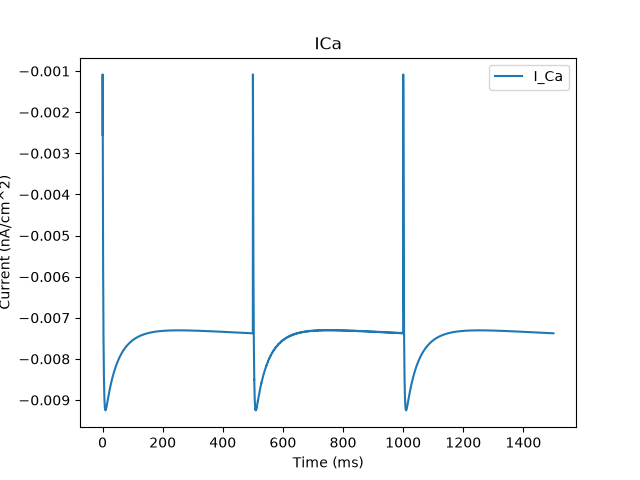
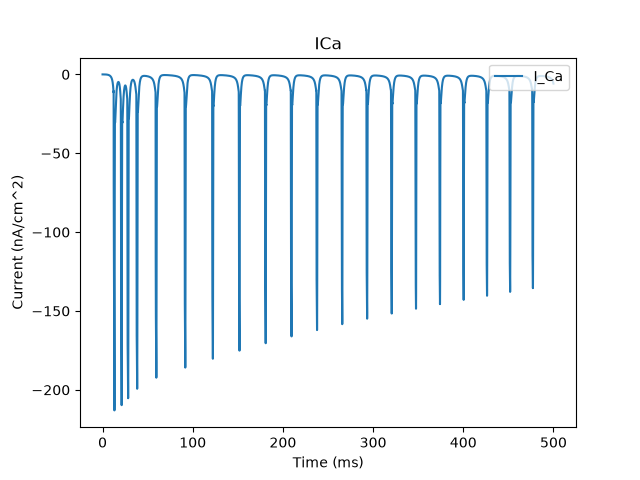
IT WORKS!!!!!!

diff --git a/HodgkinHuxley.py b/HodgkinHuxley.py
@@ -135,34 +135,24 @@ class HogdkinHuxley:
 
     def setValues_alt(self):
         #Units
+        # Membrane voltage
+        self.V0 = -75.5
         # Initialize conductance
-        self.g_NaT = 65 #Labeled gS in paper, assuming this is correct
+        self.g_NaT = 65
+        #Labeled gS in paper, assuming this is correct
         self.g_NaP = 0.1
         self.g_CaT = 0.6
-        self.g_CaH = 0.74
+        self.g_CaH = 2.6  #0.74
         self.g_KDR = 9.5
         self.g_KM = 0.8
         self.g_L = 0.02
         self.g_H = 0.0503 #Does not exist
-        # Initialize gating variable
-        self.m_CaT0 = 0.005486594704365255
-        self.m_CaH0 = 2.260443363987366e-06
-        self.m_KDR0 = 0.0014881270089334075
-        self.m_KM0 = 0.006693236665689997
-        self.m_H0 = 0.1554691454071592
-        self.h_NaT0 = 0.6713104329954209
-        self.h_CaT0 = 0.8537921873675318
-        self.h_CaH0 = 0.9456737145278049
-        self.h_KDR0 = 0.7694232333411584
-        self.n_H0 = 0.024919369791676596
+
         # Half activation voltage
         self.Vm_NaT = -37
-        self.setValues_Repeats()
 
-    def setValues_Repeats(self):
         # Initialize gating variable
-        self.m_NaT_inf = 0
-        self.m_NaP_inf = 0
+
         self.p = 0.85 #Does not exist
         # Half activation voltage
         self.Vm_NaP = -47
@@ -205,8 +195,6 @@ class HogdkinHuxley:
         self.E_K = -85
         self.E_L = -65
         self.E_H = -30 #Does not exist
-        # Membrane voltage
-        self.V0 = -75.5
         # Conductance
         self.C = 1
         # Calcium
@@ -221,6 +209,34 @@ class HogdkinHuxley:
         self.B_c = 90  # microMolar
         self.Ca_c0 = self.Ca_cr
         self.F = constants.physical_constants['Faraday constant'][0] * 1e-6  # C mol^-1 converted to smaller version from paper
+
+        # Initialize gating variable
+        # self.m_CaT0 = 0.005486594704365255
+        # self.m_CaH0 = 2.260443363987366e-06
+        # self.m_KDR0 = 0.0014881270089334075
+        # self.m_KM0 = 0.006693236665689997
+        # self.m_H0 = 0.1554691454071592
+        # self.h_NaT0 = 0.6713104329954209
+        # self.h_CaT0 = 0.8537921873675318
+        # self.h_CaH0 = 0.9456737145278049
+        # self.h_KDR0 = 0.7694232333411584
+        # self.n_H0 = 0.024919369791676596
+
+        self.m_CaT0 = boltzmann(self.V0, self.Vm_CaT, self.km_CaT)
+        self.m_CaH0 = boltzmann(self.V0, self.Vm_CaH, self.km_CaH)
+        self.m_KDR0 = boltzmann(self.V0, self.Vm_KDR, self.km_KDR)
+        self.m_KM0 = boltzmann(self.V0, self.Vm_KM, self.km_KM)
+        self.m_H0 = boltzmann(self.V0, self.Vm_H, self.km_H)
+        self.h_NaT0 = boltzmann(self.V0, self.Vh_NaT, self.kh_NaT)
+        self.h_CaT0 = boltzmann(self.V0, self.Vh_CaT, self.kh_CaT)
+        self.h_CaH0 = boltzmann(self.V0, self.Vh_CaH, self.kh_CaH)
+        self.h_KDR0 = boltzmann(self.V0, self.Vh_KDR, self.kh_KDR)
+        self.n_H0 = boltzmann(self.V0, self.Vn_H, self.kn_H)
+
+
+
+
+
 
     def updateValues(self, m_CaT0, m_CaH0, m_KDR0, m_KM0, m_H0, h_NaT0, h_CaT0, h_CaH0, h_KDR0, n_H0):
         self.m_CaT0 = m_CaT0
@@ -249,57 +265,100 @@ class HogdkinHuxley:
         z = ODEresults.y
         if verbose:
             print(ODEresults.message)
+
         #Unpack
         if memory: #Save timeseries
             if verbose:
                 print("Saving ODE time series")
-            #Time series
-            self.t_m_CaT = np.append(self.t_m_CaT, z[0])
-            self.t_m_CaH = np.append(self.t_m_CaH, z[1])
-            self.t_m_KDR = np.append(self.t_m_KDR, z[2])
-            self.t_m_KM = np.append(self.t_m_KM, z[3])
-            self.t_m_H = np.append(self.t_m_H, z[4])
-            self.t_h_NaT = np.append(self.t_h_NaT, z[5])
-            self.t_h_CaT = np.append(self.t_h_CaT, z[6])
-            self.t_h_CaH = np.append(self.t_h_CaH, z[7])
-            self.t_h_KDR = np.append(self.t_h_KDR, z[8])
-            self.t_n_H = np.append(self.t_n_H, z[9])
-            self.t_V = np.append(self.t_V, z[10])
-            self.t_Ca = np.append(self.t_Ca, z[11])
-            self.t_I_app = np.append(self.t_I_app, I_app.getMultipleCurrents(self.t_eval))
 
+
+            arraySize = len(self.t_eval)
+
+            #Create temporary arrays
+            small_t_m_NaT = np.zeros(arraySize)
+            small_t_m_NaP = np.zeros(arraySize)
+            small_t_I_NaT = np.zeros(arraySize)
+            small_t_I_NaP = np.zeros(arraySize)
+            small_t_I_CaT = np.zeros(arraySize)
+            small_t_I_CaH = np.zeros(arraySize)
+            small_t_I_KDR = np.zeros(arraySize)
+            small_t_I_KM = np.zeros(arraySize)
+            small_t_I_L = np.zeros(arraySize)
+            small_t_I_H = np.zeros(arraySize)
+            small_t_I_SK = np.zeros(arraySize)
+
+            #Time series of individual run
+            small_t_m_CaT = z[0]
+            small_t_m_CaH = z[1]
+            small_t_m_KDR = z[2]
+            small_t_m_KM = z[3]
+            small_t_m_H = z[4]
+            small_t_h_NaT = z[5]
+            small_t_h_CaT = z[6]
+            small_t_h_CaH = z[7]
+            small_t_h_KDR = z[8]
+            small_t_n_H = z[9]
+            small_t_V = z[10]
+            small_t_Ca = z[11]
+            small_t_I_app = I_app.getMultipleCurrents(self.t_eval)
+
+            #Calculate non ODE time series
             if verbose:
                 print("Deriving time series")
-            for i,voltage in enumerate(z[10]):
-                self.t_m_NaT = np.append(self.t_m_NaT, boltzmann(voltage, self.Vm_NaT, self.km_NaT))
-                self.t_m_NaP = np.append(self.t_m_NaP, boltzmann(voltage, self.Vm_NaP, self.km_NaP))
-                self.t_I_NaT = np.append(self.t_I_NaT, I_NaT_get(self.g_NaT, self.t_m_NaT[i], self.t_h_NaT[i], voltage, self.E_Na))
-                self.t_I_NaP = np.append(self.t_I_NaP, I_NaP_get(self.g_NaP, self.t_m_NaP[i], voltage, self.E_Na))
-                self.t_I_CaT = np.append(self.t_I_CaT, I_CaT_get(self.g_CaT, self.t_m_CaT[i], self.t_h_CaT[i], voltage, self.E_Ca))
-                self.t_I_CaH = np.append(self.t_I_CaH, I_CaH_get(self.g_CaH, self.t_m_CaH[i], self.t_h_CaH[i], voltage, self.E_Ca))
-                self.t_I_KDR = np.append(self.t_I_KDR, I_KDR_get(self.g_KDR, self.t_m_KDR[i], self.t_h_KDR[i], voltage, self.E_K))
-                self.t_I_KM = np.append(self.t_I_KM, I_KM_get(self.g_KM, self.t_m_KM[i], voltage, self.E_K))
-                self.t_I_L = np.append(self.t_I_L, I_L_get(self.g_L, voltage, self.E_L))
-                self.t_I_H = np.append(self.t_I_H, I_H_get(self.g_H, self.p, self.t_m_H[i], self.t_n_H[i], voltage, self.E_H))
-                self.t_I_SK = np.append(self.t_I_SK, I_SK_get(self.g_SK, self.t_Ca[i], self.k_SK, voltage, self.E_K))
-            # print(I_app.getCurrent(I_app.getLength))
-            # print(I_hold)
-            # print(self.t_I_NaT[-1] + self.t_I_NaP[-1] + self.t_I_CaT[-1] + self.t_I_CaH[-1] + self.t_I_KDR[-1] + self.t_I_KM[-1] + self.t_I_L[-1] + self.t_I_H[-1])
-            # print("t_I_NaT " + str(self.t_I_NaT[-1]))
-            # print("t_I_NaP " + str(self.t_I_NaP[-1]))
-            # print("t_I_CaT " + str(self.t_I_CaT[-1]))
-            # print("t_I_CaH " + str(self.t_I_CaH[-1]))
-            # print("t_I_KDR " + str(self.t_I_KDR[-1]))
-            # print("t_I_KM " + str(self.t_I_KM[-1]))
-            # print("t_I_L " + str(self.t_I_L[-1]))
-            # print("t_I_H " + str(self.t_I_H[-1]))
-            # print("hCaT " + str(self.t_h_CaT[-1]))
-            # print("hCaT_INF " + str(boltzmann(z[10][-1], self.Vh_CaT, self.kh_CaT)))
-            # print("t_I_SK " + str(self.t_I_SK[-1]))
+            for i,voltage in enumerate(small_t_V):
+                small_t_m_NaT[i] = boltzmann(voltage, self.Vm_NaT, self.km_NaT)
+                small_t_m_NaP[i] = boltzmann(voltage, self.Vm_NaP, self.km_NaP)
+                small_t_I_NaT[i] = I_NaT_get(self.g_NaT, small_t_m_NaT[i], small_t_h_NaT[i], voltage, self.E_Na)
+                small_t_I_NaP[i] = I_NaP_get(self.g_NaP, small_t_m_NaP[i], voltage, self.E_Na)
+                small_t_I_CaT[i] = I_CaT_get(self.g_CaT, small_t_m_CaT[i], small_t_h_CaT[i], voltage, self.E_Ca)
+                small_t_I_CaH[i] = I_CaH_get(self.g_CaH, small_t_m_CaH[i], small_t_h_CaH[i], voltage, self.E_Ca)
+                small_t_I_KDR[i] = I_KDR_get(self.g_KDR, small_t_m_KDR[i], small_t_h_KDR[i], voltage, self.E_K)
+                small_t_I_KM[i] = I_KM_get(self.g_KM, small_t_m_KM[i], voltage, self.E_K)
+                small_t_I_L[i] = I_L_get(self.g_L, voltage, self.E_L)
+                small_t_I_H[i] = I_H_get(self.g_H, self.p, small_t_m_H[i], small_t_n_H[i], voltage, self.E_H)
+                small_t_I_SK[i] = I_SK_get(self.g_SK, small_t_Ca[i], self.k_SK, voltage, self.E_K)
 
             #Deal with t_eval
             self.length_tracker = np.append(self.length_tracker,self.length)
 
+            # Create Full Time series
+            self.t_m_NaT = np.append(self.t_m_NaT, small_t_m_NaT)
+            self.t_m_NaP = np.append(self.t_m_NaP, small_t_m_NaP)
+            self.t_I_NaT = np.append(self.t_I_NaT, small_t_I_NaT)
+            self.t_I_NaP = np.append(self.t_I_NaP, small_t_I_NaP)
+            self.t_I_CaT = np.append(self.t_I_CaT, small_t_I_CaT)
+            self.t_I_CaH = np.append(self.t_I_CaH, small_t_I_CaH)
+            self.t_I_KDR = np.append(self.t_I_KDR, small_t_I_KDR)
+            self.t_I_KM = np.append(self.t_I_KM, small_t_I_KM)
+            self.t_I_L = np.append(self.t_I_L, small_t_I_L)
+            self.t_I_H = np.append(self.t_I_H, small_t_I_H)
+            self.t_I_SK = np.append(self.t_I_SK, small_t_I_SK)
+            self.t_m_CaT = np.append(self.t_m_CaT, small_t_m_CaT)
+            self.t_m_CaH = np.append(self.t_m_CaH, small_t_m_CaH)
+            self.t_m_KDR = np.append(self.t_m_KDR, small_t_m_KDR)
+            self.t_m_KM = np.append(self.t_m_KM, small_t_m_KM)
+            self.t_m_H = np.append(self.t_m_H, small_t_m_H)
+            self.t_h_NaT = np.append(self.t_h_NaT, small_t_h_NaT)
+            self.t_h_CaT = np.append(self.t_h_CaT, small_t_h_CaT)
+            self.t_h_CaH = np.append(self.t_h_CaH, small_t_h_CaH)
+            self.t_h_KDR = np.append(self.t_h_KDR, small_t_h_KDR)
+            self.t_n_H = np.append(self.t_n_H, small_t_n_H)
+            self.t_V = np.append(self.t_V, small_t_V)
+            self.t_Ca = np.append(self.t_Ca, small_t_Ca)
+            self.t_I_app = np.append(self.t_I_app, small_t_I_app)
+
+            idx = np.argmax(self.t_V)
+
+            print("V      =", self.t_V[idx])
+            print("NaT    =", self.t_I_NaT[idx])
+            print("NaP    =", self.t_I_NaP[idx])
+            print("CaT    =", self.t_I_CaT[idx])
+            print("CaH    =", self.t_I_CaH[idx])
+            print("KDR    =", self.t_I_KDR[idx])
+            print("KM     =", self.t_I_KM[idx])
+            print("Leak   =", self.t_I_L[idx])
+
+        #Update starting condition
         if updateStart:
             if verbose:
                 print("Updating starting conditions")
@@ -319,10 +378,10 @@ class HogdkinHuxley:
         return z
 
     def plotVoltageTimeSeries(self, saveLocation, saveNumber, save = True, show = True, additionalText=""):
-        plt.plot(self.final_t_eval, self.t_V)
+        plt.plot(self.t_eval, self.t_V)
         plt.xlabel("Time (ms)")
         plt.ylabel("mV")
-        plt.ylim([-0.08, 0.08])
+        # plt.ylim([-0.08, 0.08])
         if additionalText != "":
             additionalText = " " + additionalText
         plt.title("Voltage Trace" + additionalText)
@@ -357,6 +416,9 @@ class HogdkinHuxley:
         plt.legend(loc="upper right")
         # plt.savefig(saveLocation + str(saveNumber) + ".4.Gating Variable Timeseries" + ".png")
         plt.show()
+        print(np.min(self.t_h_KDR))
+        print(np.min(self.t_m_KDR))
+        print(np.min(self.t_m_KM))
 
     def plotChannelTimeSeriesVoltage(self):
         plt.scatter(self.t_V, self.t_m_NaT, label="mNaT")
@@ -427,7 +489,7 @@ class HogdkinHuxley:
         plt.plot(self.final_t_eval, self.t_I_CaH, label="CaH")
         plt.plot(self.final_t_eval, self.t_I_KDR, label="KDR")
         plt.plot(self.final_t_eval, self.t_I_KM, label="KM")
-        # plt.plot(self.final_t_eval, self.t_I_L, label="L")
+        plt.plot(self.final_t_eval, self.t_I_L, label="L")
         # plt.plot(self.final_t_eval, self.t_I_H, label="H")
         # plt.plot(self.final_t_eval, self.t_I_SK, label="SK")
         plt.xlabel("Time (ms)")

diff --git a/utils.py b/utils.py
@@ -7,6 +7,7 @@ conversionFactor_nToM = 1000000 #Maybe 1000
 #Define units
 
 def model(t, y0, I_hold, g_NaT, g_NaP, g_CaT, g_CaH, g_KDR, g_KM, g_L, g_H, p, Vm_NaT, Vm_NaP, Vm_CaT, Vm_CaH, Vm_KDR, Vm_KM, Vm_H, Vh_NaT, Vh_CaT, Vh_CaH, Vh_KDR, Vn_H, km_NaT, km_NaP, km_CaT, km_CaH, km_KDR, km_KM, km_H, kh_NaT, kh_CaT, kh_CaH, kh_KDR, kn_H, tau_m_CaT, tau_m_CaH, tau_m_KDR, tau_m_KM, tau_m_H, tau_h_CaT, tau_h_CaH, tau_h_KDR, tau_n_H, E_Na, E_Ca, E_K, E_L, E_H, C, k_d, A, d, gamma, Ca_cr, g_SK, k_SK, B_c, F, I_app, voltageRateIncrease, useSK, verbose):
+
     # Unpack
     m_CaT0 = y0[0]
     m_CaH0 = y0[1]
@@ -18,8 +19,11 @@ def model(t, y0, I_hold, g_NaT, g_NaP, g_CaT, g_CaH, g_KDR, g_KM, g_L, g_H, p, V
     h_CaH0 = y0[7]
     h_KDR0 = y0[8]
     n_H0 = y0[9]
-    V0 = y0[10] * 1000
+    V0 = y0[10]
     Ca_c = y0[11]
+
+    if V0 > 40:
+        print("AP!")
 
     # Non derivative gating functions
     m_NaT = boltzmann(V0, Vm_NaT, km_NaT)
@@ -39,7 +43,7 @@ def model(t, y0, I_hold, g_NaT, g_NaP, g_CaT, g_CaH, g_KDR, g_KM, g_L, g_H, p, V
     I_H = 0
 
     #Currents I_SK
-    I_SK = I_SK_get(g_SK, Ca_c, k_SK, V0, E_K) if useSK else 0
+    # I_SK = I_SK_get(g_SK, Ca_c, k_SK, V0, E_K) if useSK else 0
 
     # Calcium
     # dCa_c = ((1 + B_c / k_d) ** -1) * (((-(I_CaH + I_CaT) / (2*A*F*d))*1e-9) - gamma * (Ca_c - Ca_cr)) if useSK else 0
@@ -62,6 +66,7 @@ def model(t, y0, I_hold, g_NaT, g_NaP, g_CaT, g_CaH, g_KDR, g_KM, g_L, g_H, p, V
     dm_KM = gateDerivative(V0, Vm_KM, km_KM, m_KM0, tau_m_KM)
     dm_H = 0
     dn_H = 0
+
 
     #Pack
     y = np.array([dm_CaT, dm_CaH, dm_KDR, dm_KM, dm_H, dh_NaT, dh_CaT, dh_CaH, dh_KDR, dn_H, dV, dCa_c]).T

diff --git a/ExperimentManager.py b/ExperimentManager.py
@@ -66,10 +66,10 @@ class ExperimentManager:
                 self.plotingSuite("Step Current " + str(self.peakCurrent * 100) + "pA for 500mS")
             case "Constant":
                 print("Running Constant Current Experiment")
-                current = WhiteNoise(0, 1000)
-                self.neuron.runModel(self.I_hold, current, True, True, False, True, True)
+                # current = WhiteNoise(0, 3000)
+                # self.neuron.runModel(self.I_hold, current, True, False, False, True, True)
                 current = WhiteNoise(self.peakCurrent, 500)
-                self.neuron.runModel(self.I_hold, current, True, True, True, True, True)
+                self.neuron.runModel(self.I_hold, current, True, False, True, True, True)
                 self.plotingSuite("Constant Current " + str(self.peakCurrent * 100) + "pA")
                 # self.neuron.plotChannelTimeSeriesVoltage()
             case "Chirp":

diff --git a/main.py b/main.py
@@ -10,12 +10,12 @@ from ExperimentManager import ExperimentManager
 # #Run steady state
 
 if __name__ == '__main__':
-
+#Paper from https://research-information.bris.ac.uk/ws/portalfiles/portal/3018849/pyr_neur_model_preprint.pdf
     CoolExperiment = ExperimentManager(2)
     # CoolExperiment.run("Optimize")
-    # CoolExperiment.run("Constant")
+    CoolExperiment.run("Constant")
     # CoolExperiment.run("Restart")
-    CoolExperiment.run("Step")
+    # CoolExperiment.run("Step")
     # CoolExperiment.run("Restart")
     # CoolExperiment.run("Chirp")
     # CoolExperiment.run("PermutationTesting2")
